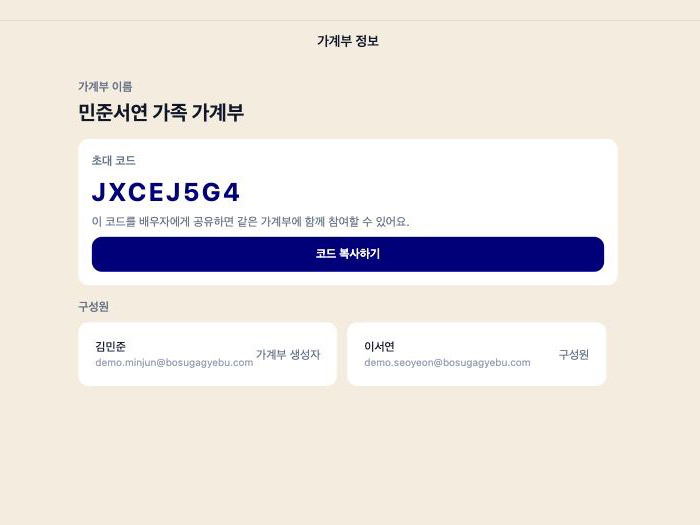
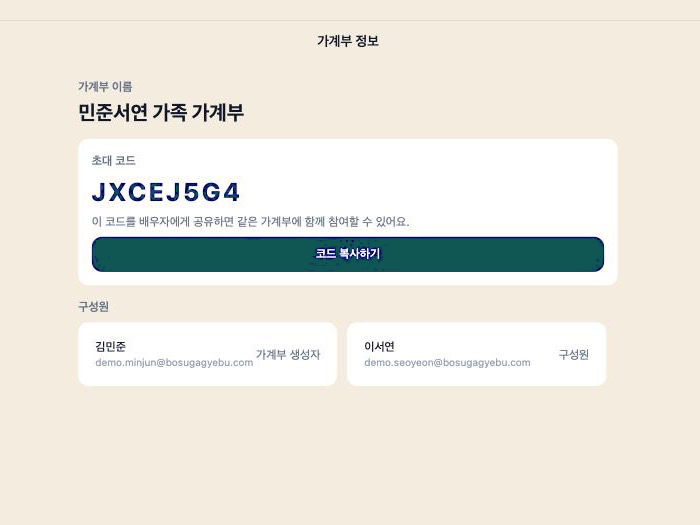
웰컴 마케팅 스크린샷의 네이비 UI 요소를 새 틸 컬러로 재보정, 약관/개인정보처리방침의 "배우자" 문구를 인원 제한 없는 표현으로 수정
- 색상 거리 기반 마스크로 preview 스크린샷/GIF 6개(가져오기, 초대코드, 카테고리,
  캘린더, 통계, 자산)에서 구 네이비(#02007D)·연보라(#E3E2F8) 픽셀만 골라 새
  팔레트로 치환. 애니메이션 GIF는 프레임별 duration/loop 유지하며 재생성
- 이용약관 1조 "배우자를 가계부에 초대하면, 두 사람이…" → "구성원을 가계부에
  초대하면, 구성원들이…", 8조/개인정보처리방침의 "배우자와 함께 쓰는" →
  "다른 구성원과 함께 쓰는"

Claude-Session: https://claude.ai/code/session_0192u1Aw5YHBEf88JtvH6CKD

diff --git a/src/app/terms.tsx b/src/app/terms.tsx
@@ -31,9 +31,9 @@ export default function TermsScreen() {
 
       <View className="gap-5">
         <Section title="1. 서비스 소개 및 운영자">
-          BOSU Ledger는 부부·가족이 함께 쓰는 가계부 앱이에요. 초대 코드로 배우자를 가계부에
-          초대하면, 두 사람이 입력한 수입·지출·자산 내역을 한 가계부에서 같이 보고 관리할 수
-          있어요. 이 서비스는 별도 사업자 등록 없이 개인이 운영하고 있으며, 문의는
+          BOSU Ledger는 가족·룸메이트 등 여러 명이 함께 쓰는 가계부 앱이에요. 초대 코드로
+          구성원을 가계부에 초대하면, 구성원들이 입력한 수입·지출·자산 내역을 한 가계부에서
+          같이 보고 관리할 수 있어요. 이 서비스는 별도 사업자 등록 없이 개인이 운영하고 있으며, 문의는
           doslxk@gmail.com으로 받고 있어요.
         </Section>
         <Section title="2. 계정 및 가입">
@@ -76,7 +76,7 @@ export default function TermsScreen() {
         </Section>
         <Section title="8. 탈퇴">
           설정 화면에서 언제든 계정을 삭제(탈퇴)할 수 있고, 탈퇴 시 계정 정보는 즉시
-          삭제돼요. 다만 배우자와 함께 쓰는 가계부의 거래 내역 등은 가계부 자체의 공유
+          삭제돼요. 다만 다른 구성원과 함께 쓰는 가계부의 거래 내역 등은 가계부 자체의 공유
           데이터이므로 탈퇴 후에도 남아있을 수 있고, 이 경우 작성자 표시만 사라져요.
         </Section>
         <Section title="9. 유료화">

diff --git a/src/app/privacy.tsx b/src/app/privacy.tsx
@@ -46,7 +46,7 @@ export default function PrivacyScreen() {
         </Section>
         <Section title="3. 보유 및 이용 기간">
           회원 탈퇴 전까지 보관하고, 탈퇴하면 이름·이메일·비밀번호 등 계정 정보는 즉시
-          삭제해요. 다만 배우자와 함께 쓰는 가계부의 거래 내역·자산 정보는 가계부 자체의
+          삭제해요. 다만 다른 구성원과 함께 쓰는 가계부의 거래 내역·자산 정보는 가계부 자체의
           공유 데이터이기 때문에, 탈퇴 후에도 가계부에는 남아있을 수 있고 이 경우 작성자
           표시만 사라져요. 관련 법령에 따라 별도 보관 의무가 생기는 경우 그 기간 동안만
           예외적으로 보관해요.
